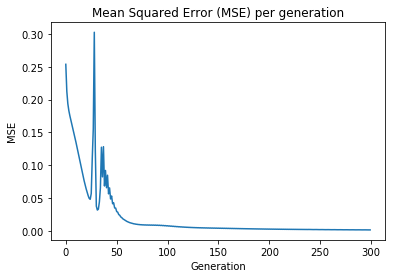
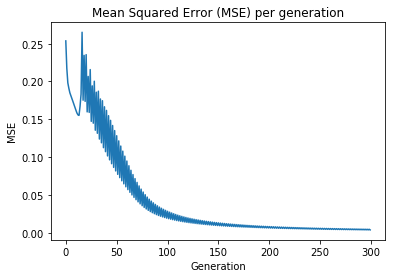
correcting tanh derivative

diff --git a/XOR/mlp.py b/XOR/mlp.py
@@ -32,7 +32,7 @@ class mlp():
     def _function(self, X, deriv=False):
         if self.activation=="tanh":
             if(deriv==True):
-                return 1. - np.square(X)
+                return 1. - np.square(np.tanh(X))
             else: return np.tanh(X)
 
         elif self.activation=="sigmoid":

diff --git a/XOR/README.md b/XOR/README.md
@@ -38,12 +38,13 @@ class mlp():
     def _function(self, X, deriv=False):
         if self.activation=="tanh":
             if(deriv==True):
-                return 1. - np.square(X)
+                return 1. - np.square(np.tanh(X))
             else: return np.tanh(X)
         elif self.activation=="sigmoid":
             if(deriv==True):
                 return X * (1 - X ) 
             else:  return 1./(1+np.exp( -X ))
+
         
     
     # corrects the  shape of y
@@ -198,10 +199,10 @@ clf = mlp(seed=1, activation="sigmoid", max_iter=300, hidden_layer_size=4, alpha
 %time clf.example_run()   
 ```
 
-    Starting MLP at: 2018-04-15 23:03:28.843756
-    Finishing MLP training at: 2018-04-15 23:03:28.871820
+    Starting MLP at: 2018-04-15 23:28:57.799237
+    Finishing MLP training at: 2018-04-15 23:28:57.826877
     Final error: 0.000949241885288
-    It took 0:00:00.028064
+    It took 0:00:00.027640
     Results:
     
      X    y    Predicted
@@ -217,8 +218,8 @@ clf = mlp(seed=1, activation="sigmoid", max_iter=300, hidden_layer_size=4, alpha
 ![png](output_5_1.png)
 
 
-    CPU times: user 462 ms, sys: 57.3 ms, total: 519 ms
-    Wall time: 530 ms
+    CPU times: user 445 ms, sys: 74.2 ms, total: 519 ms
+    Wall time: 605 ms
 
 
 #### Using tanh
@@ -229,25 +230,25 @@ clf = mlp(seed=1, activation="tanh", max_iter=300, hidden_layer_size=4, alpha=.4
 %time clf.example_run()   
 ```
 
-    Starting MLP at: 2018-04-15 23:03:29.382378
-    Finishing MLP training at: 2018-04-15 23:03:29.421537
-    Final error: 0.00171551818774
-    It took 0:00:00.039159
+    Starting MLP at: 2018-04-15 23:28:58.411577
+    Finishing MLP training at: 2018-04-15 23:28:58.440488
+    Final error: 0.00363558474058
+    It took 0:00:00.028911
     Results:
     
      X    y    Predicted
-    [0 0] 0 -0.0430672878372
-    [0 1] 1 0.960204330911
-    [1 0] 1 0.965861547775
-    [1 1] 0 -0.0495891910655
+    [0 0] 0 0.089678460178
+    [0 1] 1 0.989339313261
+    [1 0] 1 0.993289624639
+    [1 1] 0 0.0980044181149
     
-    score: 99.823%
+    score: 99.555%
 
 
 
 ![png](output_7_1.png)
 
 
-    CPU times: user 239 ms, sys: 12.7 ms, total: 252 ms
-    Wall time: 265 ms
+    CPU times: user 226 ms, sys: 10.4 ms, total: 236 ms
+    Wall time: 242 ms
 
